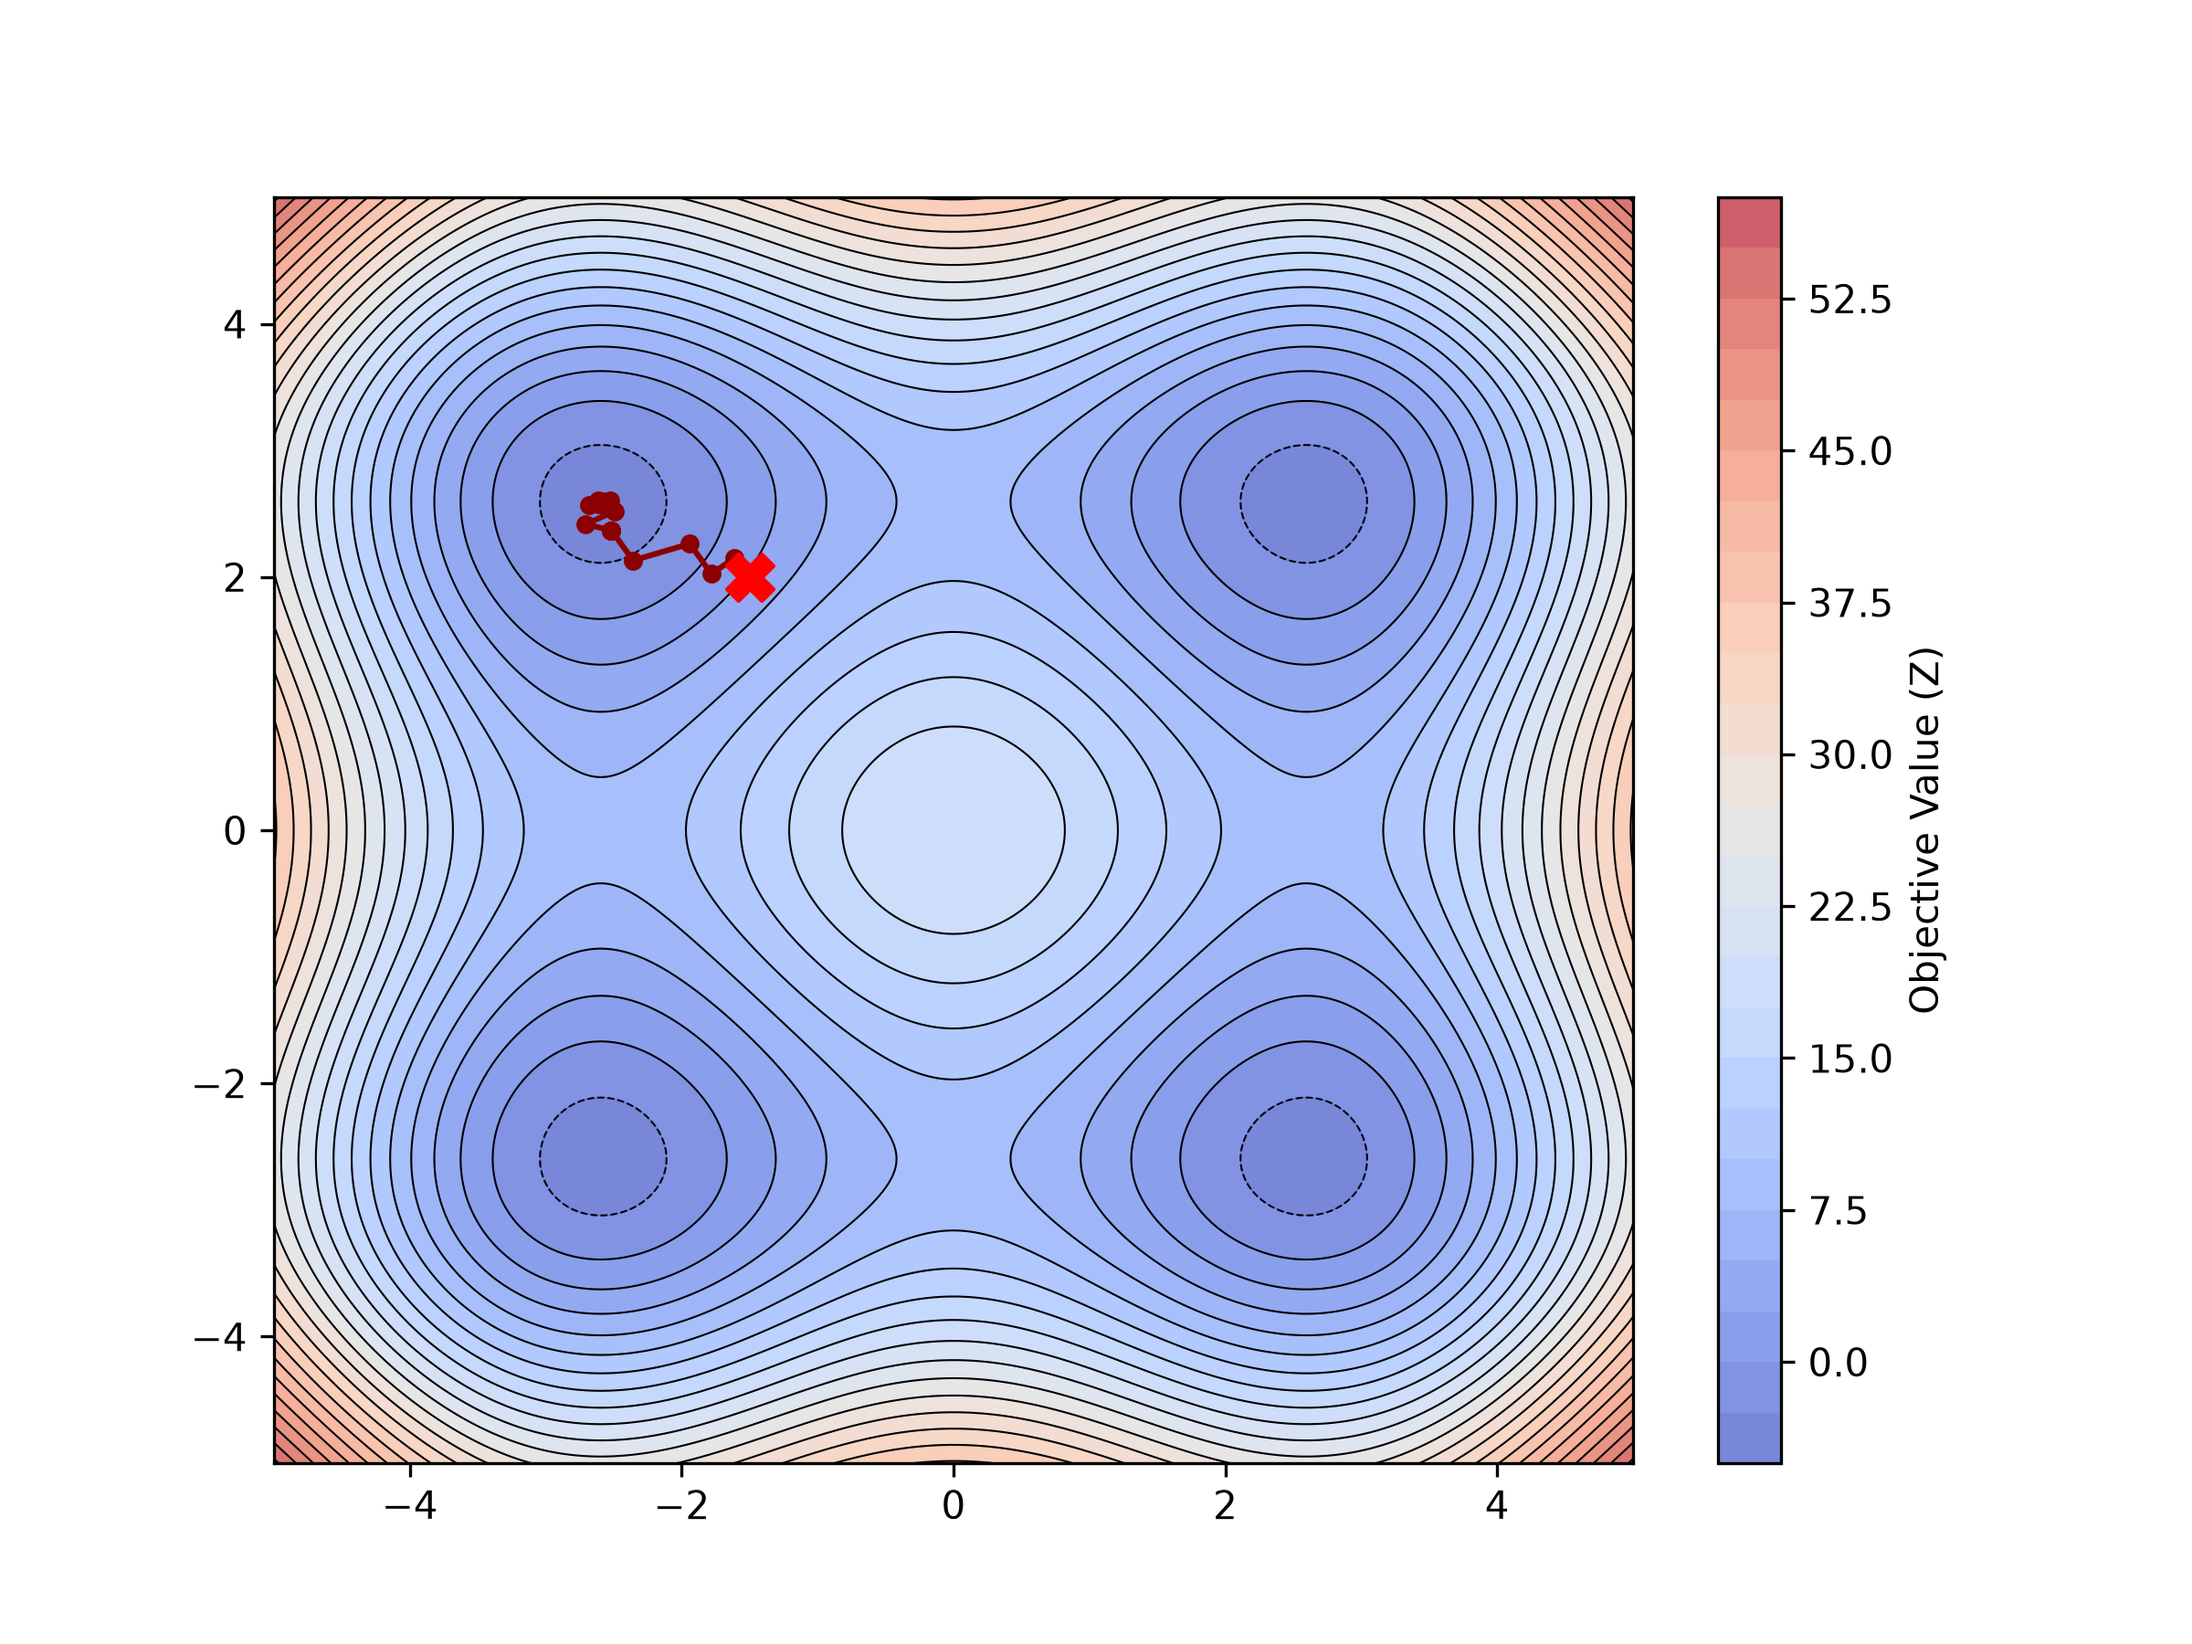
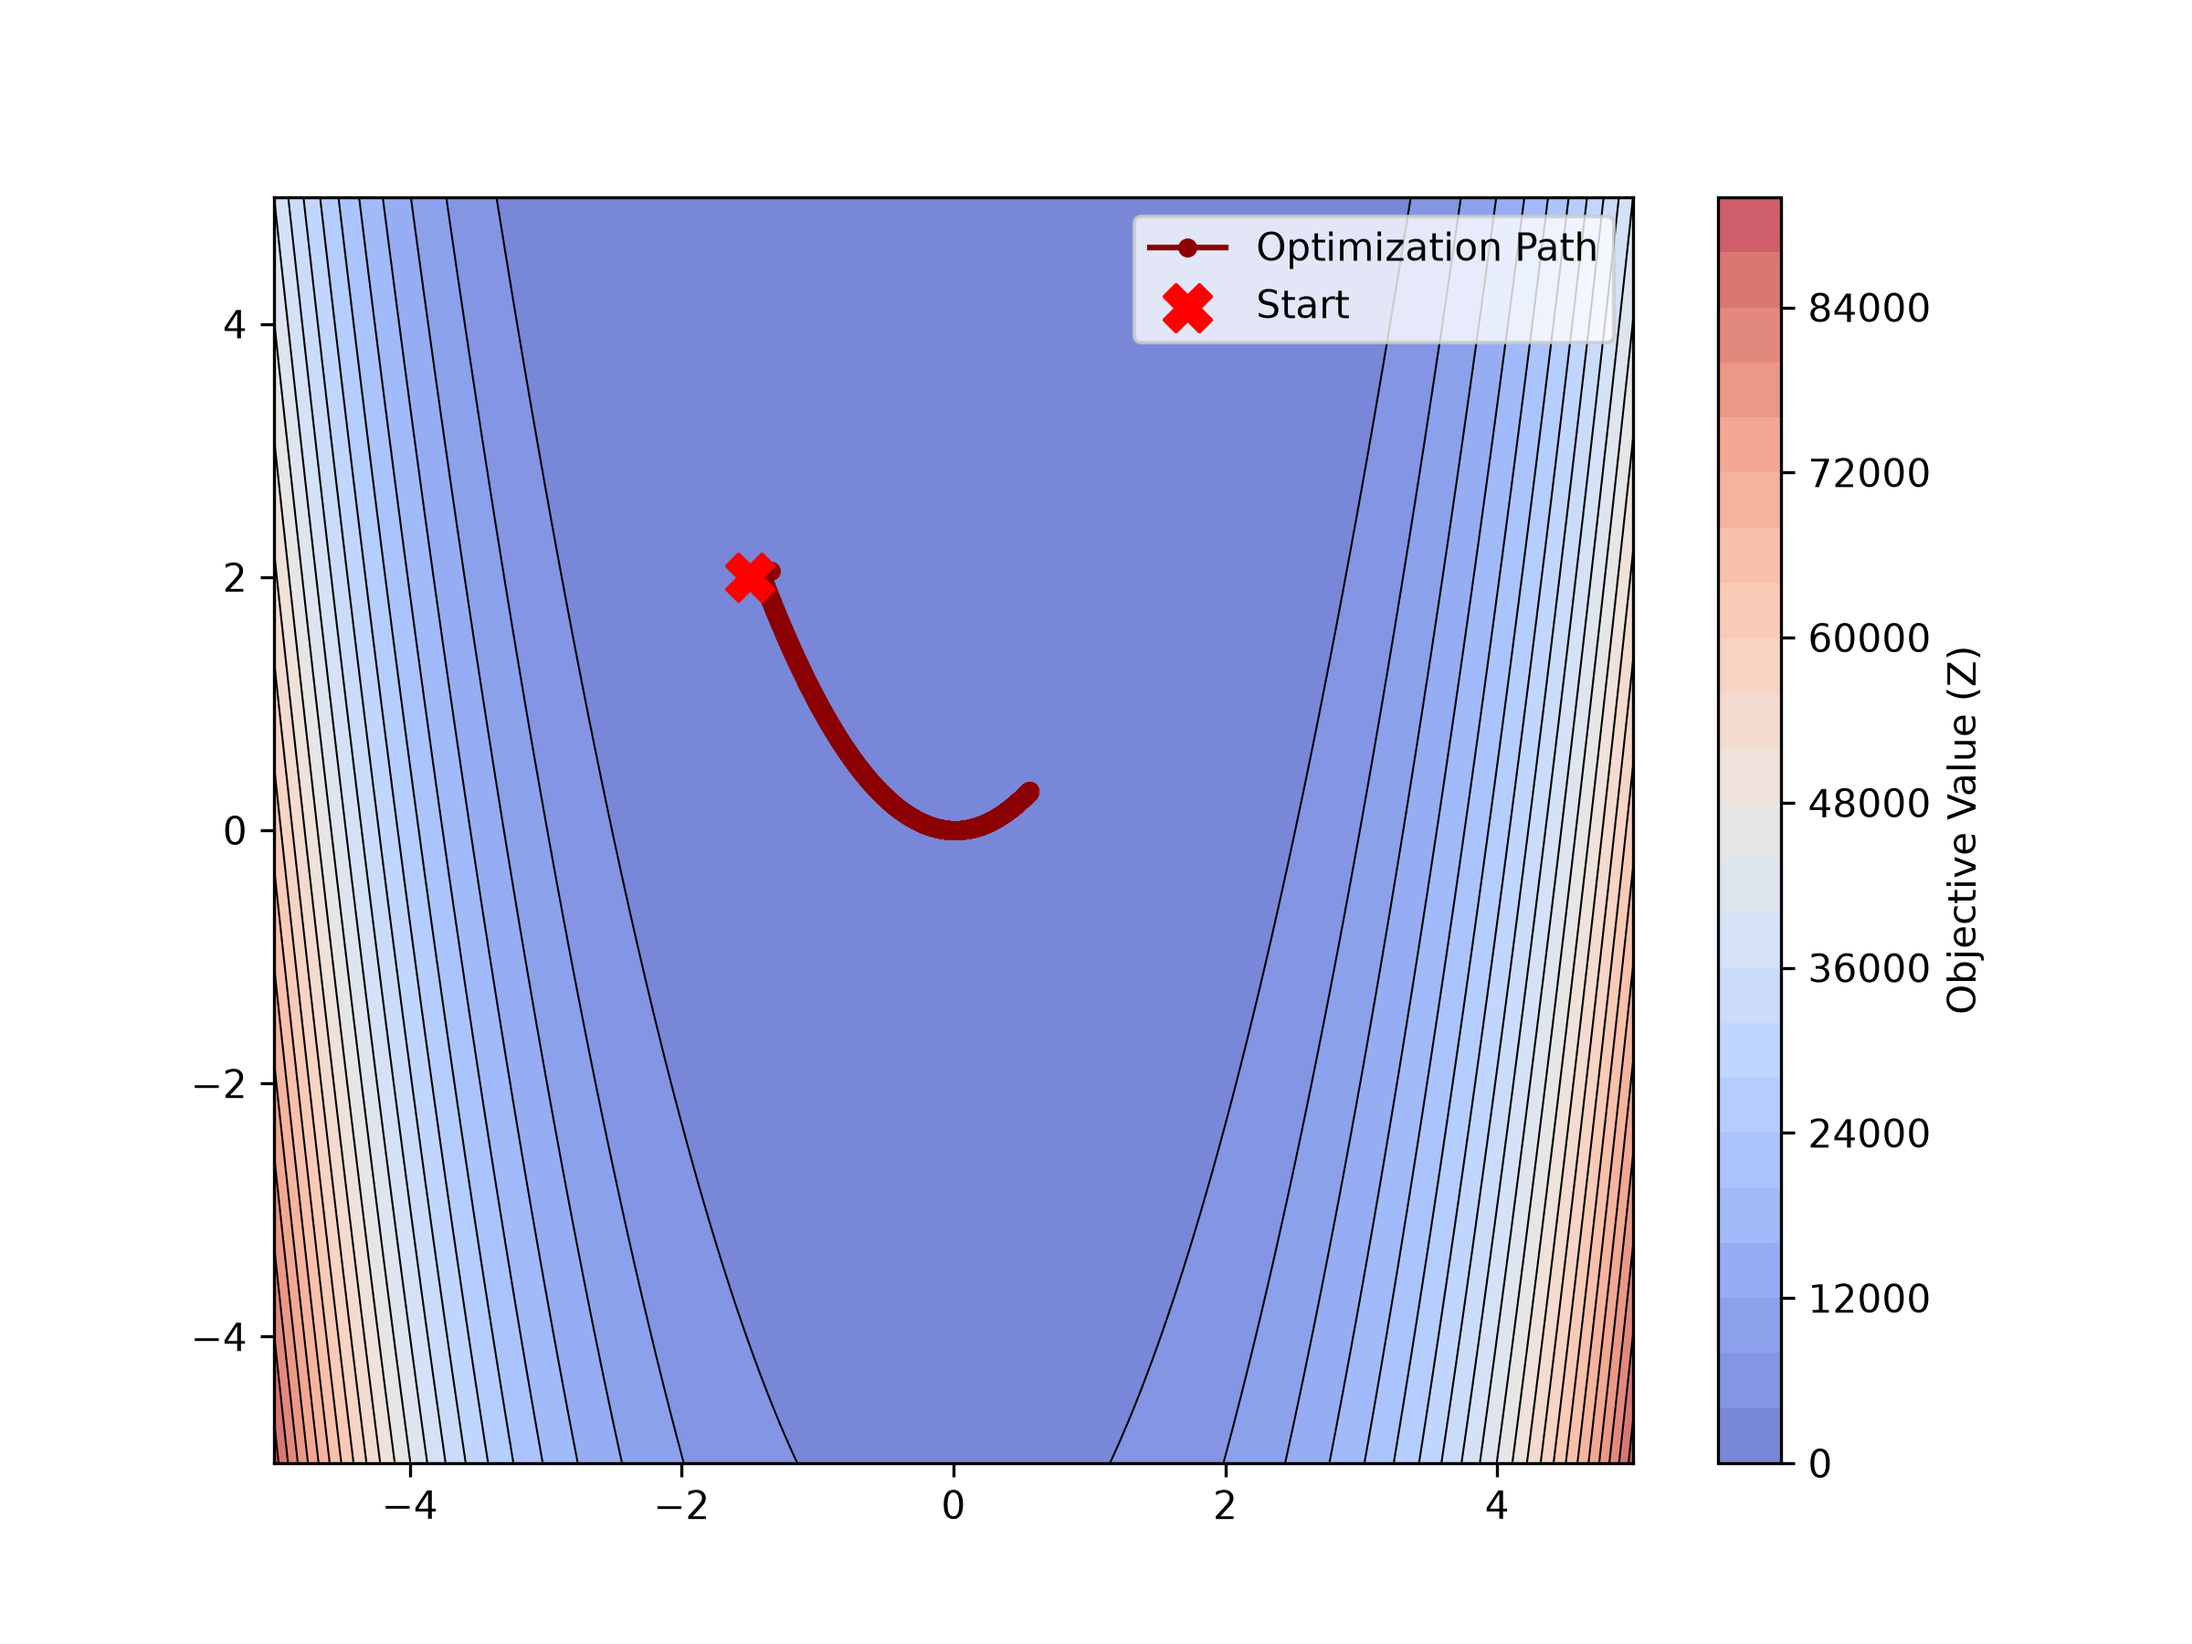
func(gradient-descent): added basic fixed-step gd implementation along with jac and hess of the functions to be used in project.

diff --git a/src/gdv/optimize.py b/src/gdv/optimize.py
@@ -103,3 +103,111 @@ def dumb_optimize(
     )
 
     return res
+
+
+def gradient_descent(
+        fun, 
+        x0, 
+        args=(), 
+        jac: Any | None = None,
+        hess: Any | None = None,
+        hessp: Any | None = None,
+        bounds: Any | None = None,
+        constraints: Any | None = None,
+        tol: float | None = 1e-8, # tolerance, like our epsilon that defines convergence
+        callback: Callable = None, 
+        **kwargs
+    ) -> OptimizeResult:
+    """
+    Gradient descent function, as discussed in the week 2 lecture.
+    It only needs the Jacobian (gradient) of the objective function, which is passed as `jac` to this function.
+    The Jacobian will need to be predefined as a separate function.
+
+    The `kwargs` includes the custom parameter:
+    - lr: Learning rate for the optimization algorithm.
+    - max_iter: Maximum number of iterations for the optimization algorithm.
+
+
+    Parameters:
+    - fun: The objective function to be minimized.
+    - x0: Initial guess for the parameters.
+    - args: Extra arguments passed to the objective function.
+    - jac: Jacobian (gradient) of the objective function.
+    - hess: Hessian (second derivative) of the objective function.
+    - hessp: Hessian product function.
+    - bounds: Bounds for variables (only for constrained optimization).
+    - constraints: Constraints definition (only for constrained optimization).
+    - tol: Tolerance for termination / convergence.
+    - callback: A function called after each iteration of the optimization.
+    - **kwargs: Additional keyword arguments for custom parameters.
+
+
+
+    Returns:
+    - res: An OptimizeResult object containing the optimization results.
+
+    Example usage:
+
+    ```python
+
+        custom_options = {'lr': 0.05, 'max_iter': 50_000}
+
+        result_custom = minimize(
+            fun=objective_func, 
+            x0=start_point,
+            callback=callback, # assumes you've defined your own callback function to track the optimization history          
+            method=gradient_descent, # custom function
+            options=custom_options #  <-- custom params passed here
+        )
+    ```
+
+    """
+    # SciPy bundles the options dict into kwargs.
+    # So, minimize(..., **options) ---> custom_gradient_descent(..., **kwargs)
+    #########################################
+    # Unpack kwargs to get custom parameters
+    #########################################
+
+    learning_rate = kwargs.get('lr', 0.1)
+    max_iter = kwargs.get('max_iter', 10)
+    
+    x = np.array(x0)
+    
+
+    iter_cnt = 0
+    # run a dummy loop to show the options in action
+    for iter_cnt in range(max_iter):
+
+        step_size = learning_rate * jac(x, *args)  # compute the step size using the Jacobian
+
+        xk = x - step_size  # update the current point
+        
+        # debugging output to show the optimization process
+        # print(f"Iteration {iter_cnt}: x = {x}, \
+        #     step_size = {step_size}, \
+        #     norm = {np.linalg.norm(xk - x)}"
+        # )
+
+        if np.linalg.norm(xk - x) < tol:  # convergence criterion
+            print(f"Converged after {iter_cnt} iterations:\nxk = {xk}\nx = {x}\nnorm = {np.linalg.norm(xk - x)}\ntol = {tol}\n")
+            break
+
+        if callback:
+            # traditional SciPy callback passes just the current vector `x`
+            callback(x)
+
+        x = xk # update current to new point
+
+        
+    # create the mandatory SciPy output wrapper
+    res = OptimizeResult(
+        x=x,
+        success=True,
+        status=0,
+        message=f"Custom optimization converged after {iter_cnt} iterations.",
+        fun=fun(x, *args),
+        nit=iter_cnt,
+        nfev=iter_cnt
+    )
+
+    return res

diff --git a/src/gdv/functions.py b/src/gdv/functions.py
@@ -5,6 +5,7 @@ All function variables are defined as elements of tuples.
 
 For example, a function f(x, y) will have x[0] = x and x[1] = y
 
+Also includes the Jacobian and Hessian for each function.
 """
 import numpy as np
 
@@ -24,11 +25,62 @@ def default_meshgrid(
     X, Y = np.meshgrid(x, y)
     return X, Y
 
-
-# f1(x, y) = x^2 + y^2
+########################
+# Convex bowl function
+########################
+# f(x, y) = x^2 + y^2
 convex_bowl = lambda x: x[0]**2 + x[1]**2
 
-#f2(x, y) = (1 - x)^2 + 100 (y - x^2)^2
+# f(x,y)/dx = 2x, f(x,y)/dy = 2y
+convex_bowl_jacobian = lambda x: np.array([2 * x[0], 2 * x[1]])
+
+# f(x,y)/dx^2 = 2, f(x,y)/dy^2 = 2, f(x,y)/dxdy = 0
+# Note: we have a symmetric square matrix, and the hessian happens to be constant..
+convex_bowl_hess = lambda x: np.array(
+    [
+        [2, 0], 
+        [0, 2]
+    ]
+)
+
+
+########################
+# rosenbrock function
+########################
+#f(x, y) = (1 - x)^2 + 100 (y - x^2)^2
 rosenbrock = lambda x: (1 - x[0])**2 + 100 * (x[1] - x[0]**2)**2
 
+
+rosenbrock_jacobian = lambda x: np.array(
+    [
+        -2 * (1 - x[0]) - 400 * x[0] * (x[1] - x[0]**2),
+        200 * (x[1] - x[0]**2)
+    ]
+)
+
+rosenbrock_hess = lambda x: np.array(
+    [
+        [1200 * x[0]**2 - 400 * x[1] + 2, -400 * x[0]],
+        [-400 * x[0], 200]
+    ]
+)
+
+########################
+# multimodal_nonconvex
+########################
+#f(x, y) = x^2 + y^2 + 10 cos(x) + 10 cos(y)
 multimodal_nonconvex = lambda x: x[0]**2 + x[1]**2 + 10 * np.cos(x[0]) + 10 * np.cos(x[1])
+
+multimodal_nonconvex_jacobian = lambda x: np.array(
+    [
+        2*x[0] - 10 * np.sin(x[0]),
+        2*x[1] - 10 * np.sin(x[1])
+    ]
+)
+
+multimodal_nonconvex_hess = lambda x: np.array(
+    [
+        [2 - 10 * np.cos(x[0]), 0],
+        [0, 2 - 10 * np.cos(x[1])]
+    ]
+)   

diff --git a/main.py b/main.py
@@ -2,12 +2,27 @@ import numpy as np
 import matplotlib.pyplot as plt
 from scipy.optimize import minimize
 from gdv.contour import optim_contour
-from gdv.functions import default_meshgrid, rosenbrock, multimodal_nonconvex, convex_bowl
+from gdv.functions import (
+    default_meshgrid, 
+
+    multimodal_nonconvex, 
+    multimodal_nonconvex_jacobian,
+
+    rosenbrock,
+    rosenbrock_jacobian,
+
+    convex_bowl,
+    convex_bowl_jacobian
+
+)
+from gdv.optimize import gradient_descent
+
 
 def main():
 
     # 0. define your objective function
-    objective_func = multimodal_nonconvex
+    objective_func = rosenbrock
+    objective_jacobian = rosenbrock_jacobian
 
     # 1. define your starting point and initialize the history list
     start_point = np.array([-1.5, 2.0])
@@ -25,13 +40,25 @@ def main():
     X, Y = default_meshgrid(x_range=(-5, 5), y_range=(-5, 5), num_points=900)
     Z = objective_func((X, Y))
 
-    # 4. run optimization
+    # 4. define parameters and run optimization
+
+    custom_options = {'lr': 0.001, 'max_iter': 2000}
+
     result = minimize(
         fun=objective_func, 
+        jac=objective_jacobian,
         x0=start_point, 
-        method='Nelder-Mead', 
-        callback=callback
+        method=gradient_descent, 
+        callback=callback,
+        options=custom_options,
+        tol=1e-10 
     )
+
+    print("Optimization Result:")
+    print(f"Final point: {result.x}")
+    print(f"Function value at final point: {result.fun}")
+    print(f"Number of iterations: {result.nit}")
+    
 
     # 5. visualize the optimization path on the contour plot
     fig = optim_contour(
@@ -42,7 +69,7 @@ def main():
         figsize=(8, 6), 
     )
     fig.savefig('figures/example.png', dpi=300)
-    plt.show()
+    # plt.show()
 
 if __name__ == '__main__':
     main()

diff --git a/src/gdv/contour.py b/src/gdv/contour.py
@@ -4,7 +4,6 @@ from matplotlib.figure import Figure
 from numpy.typing import NDArray
 from typing import Iterable
 
-
 # primary func for generating the contours + historically travelled path.
 def optim_contour(
     X: NDArray,
@@ -103,6 +102,9 @@ def optim_contour(
         label=start_label
     )
 
+
+    ax.legend()
+    
     # if a known global optimum is provided, mark it, too.
     if known_optimum is not None:
         ax.scatter(
